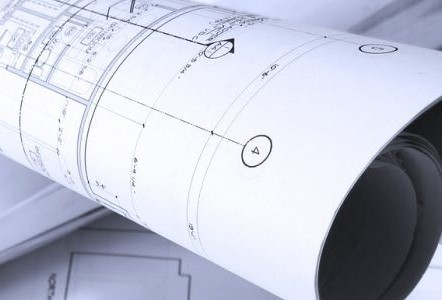
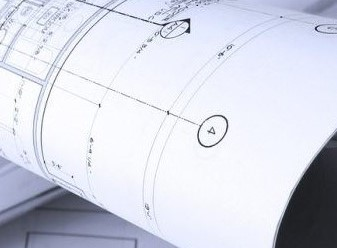
Facility design added

diff --git a/index.html b/index.html
@@ -121,14 +121,13 @@
             <div class="card-columns">
               <div class="card" style="width:300px">
                <a data-toggle="collapse" href="#uni" role="button" aria-expanded="false" aria-controls="uni">
-                 <img class="card-img-top" src="images/Andrew Mentis-edited.png" alt="Card image"></a> 
+                 <img class="card-img-top" src="images/Andrew Mentis-edited2.png" alt="Card image"></a> 
                 <div id="uni" class="card-body collapse"> 
                   <h4 class="card-title">Final Year Project</h4>
                   <p class="card-text">2019</p>
                   <p> My final year project was to solve the root cause of unbalanced production flow.
-                    <p></p> 
-                    The designed solution was developed using the DMADV methodology. 
-                    The deliverable was a perfect state and an intermediate state visual Kanban system.</p>
+                    <br> 
+                      The deliverable was a perfect state and an intermediate state visual Kanban system.</p>
                   <!--<a href="#" class="btn btn-primary">See Profile</a> -->
                 </div>
               </div>
@@ -136,11 +135,14 @@
                 <a data-toggle="collapse" href="#uni2" role="button" aria-expanded="false" aria-controls="uni2">
                   <img class="card-img-top" src="images/design_home_banner-1-edited.jpg" alt="Card image"></a> 
                  <div id="uni2" class="card-body collapse"> 
-                   <h4 class="card-title">Facility dessign project</h4>
+                   <h4 class="card-title">Facility design project</h4>
                    <p class="card-text">2019</p>
                    <p> For my final exam in my facility design class, I had to improve and redesign a gas cylinder facility.
                      <p></p> 
                      </p>
+                   <!--<a href="#" class="btn btn-primary">See Profile</a> -->
+                 </div>
+               </div>
                    <!--<a href="#" class="btn btn-primary">See Profile</a> -->
                  </div>
                </div>
